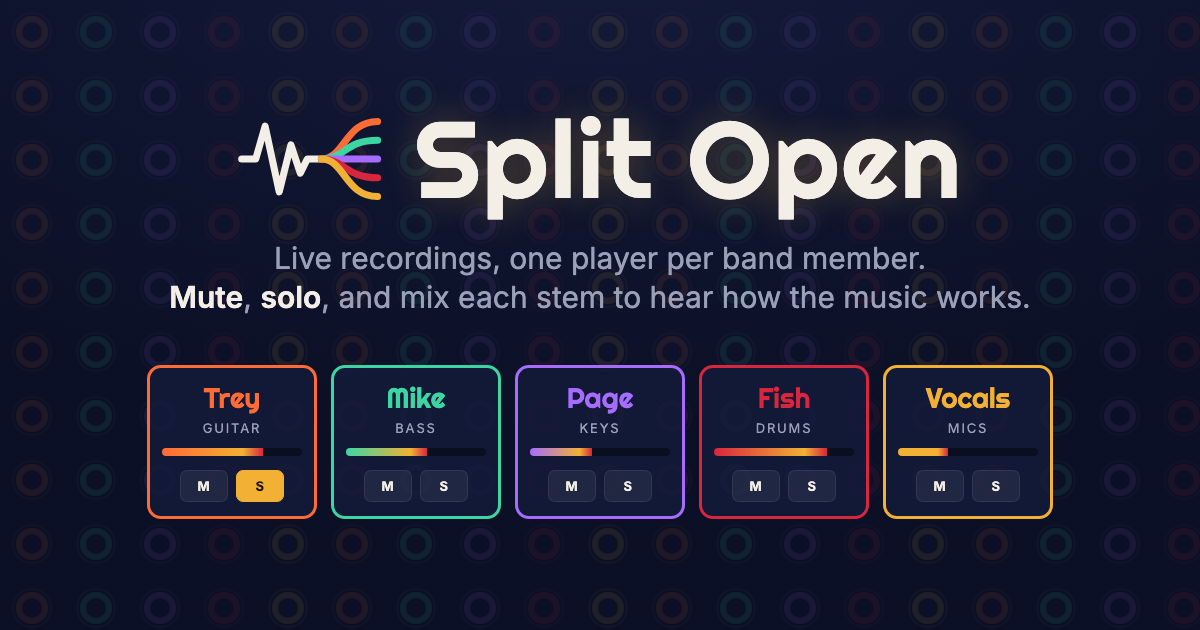
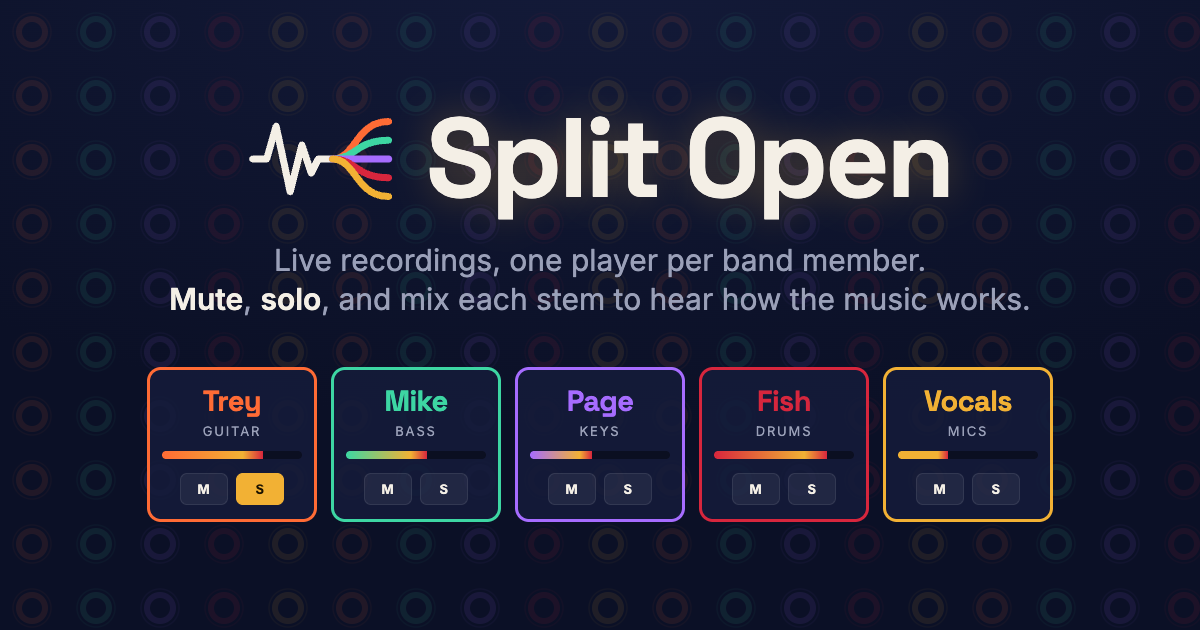
Set display type in Space Grotesk, keep Inter for the rest
Righteous gave the title, logo text, and strip names a retro signage look
that fought the mixer's console feel. Space Grotesk 700 with tight tracking
reads as gear rather than marquee while keeping the names personal. Inter
stays for body, buttons, labels, and timecode. The social card matches and
was regenerated.

diff --git a/scripts/social-card.html b/scripts/social-card.html
@@ -1,6 +1,6 @@
 <!doctype html>
 <html lang="en"><head><meta charset="utf-8">
-<link href="https://fonts.googleapis.com/css2?family=Righteous&family=Inter:wght@400;600;700&display=swap" rel="stylesheet">
+<link href="https://fonts.googleapis.com/css2?family=Space+Grotesk:wght@700&family=Inter:wght@400;600;700&display=swap" rel="stylesheet">
 <style>
 :root{--bg:#0b1026;--bg-2:#141b3a;--panel:rgba(20,27,58,.85);--line:rgba(255,255,255,.08);--text:#f4efe6;--muted:#9aa0b8;--gold:#f2b134;--donut:#d7263d;--trey:#ff6b35;--mike:#3dd6a3;--page:#a66cff;--fish:#d7263d;--vox:#f2b134}
 html,body{margin:0}
@@ -9,12 +9,12 @@ body{width:1200px;height:630px;overflow:hidden;position:relative;background:radi
 .wrap{position:relative;height:100%;display:flex;flex-direction:column;justify-content:center;align-items:center;gap:0;padding:0 80px}
 .head{display:flex;align-items:center;gap:28px;margin-top:-6px}
 .mark{width:150px;height:94px}
-h1{font-family:Righteous,sans-serif;font-weight:400;font-size:108px;line-height:1;margin:0;letter-spacing:.02em;text-shadow:0 0 36px rgba(242,177,52,.28)}
+h1{font-family:"Space Grotesk",sans-serif;font-weight:700;font-size:112px;line-height:1;margin:0;letter-spacing:-.03em;text-shadow:0 0 36px rgba(242,177,52,.28)}
 .tag{margin:26px 0 0;font-size:30px;color:var(--muted);text-align:center;line-height:1.3;font-weight:400}
 .tag b{color:var(--text);font-weight:600}
 .mixer{display:grid;grid-template-columns:repeat(5,170px);gap:14px;margin-top:48px}
 .strip{--c:var(--gold);background:var(--panel);border:3px solid var(--c);border-radius:14px;padding:16px 12px 14px;display:flex;flex-direction:column;align-items:center;gap:8px}
-.who{font-family:Righteous,sans-serif;font-size:28px;color:var(--c);line-height:1}
+.who{font-family:"Space Grotesk",sans-serif;font-weight:700;font-size:29px;letter-spacing:-.02em;color:var(--c);line-height:1}
 .inst{font-size:13px;color:var(--muted);text-transform:uppercase;letter-spacing:.14em}
 .meter{width:100%;height:8px;background:rgba(0,0,0,.4);border-radius:4px;overflow:hidden;margin-top:4px}
 .fill{height:100%;background:linear-gradient(to right,var(--c),var(--gold) 80%,var(--donut))}

diff --git a/web/styles.css b/web/styles.css
@@ -60,13 +60,16 @@ body {
 }
 .logo-mark { width: 44px; height: 28px; }
 .logo-text {
-  font-family: Righteous, Inter, sans-serif;
-  font-size: 20px;
-  letter-spacing: 0.04em;
+  font-family: "Space Grotesk", Inter, sans-serif;
+  font-weight: 700;
+  font-size: 21px;
+  letter-spacing: -0.01em;
 }
 h1 {
-  font-family: Righteous, Inter, sans-serif;
-  font-size: clamp(40px, 8vw, 72px);
+  font-family: "Space Grotesk", Inter, sans-serif;
+  font-weight: 700;
+  font-size: clamp(40px, 8vw, 76px);
+  letter-spacing: -0.03em;
   line-height: 1;
   margin: 6px 0 8px;
   color: var(--text);
@@ -128,8 +131,10 @@ h1 {
 .strip.inactive { opacity: 0.45; }
 
 .strip .who {
-  font-family: Righteous, Inter, sans-serif;
-  font-size: 22px;
+  font-family: "Space Grotesk", Inter, sans-serif;
+  font-weight: 700;
+  font-size: 23px;
+  letter-spacing: -0.02em;
   color: var(--c);
   line-height: 1;
 }

diff --git a/web/index.html b/web/index.html
@@ -27,7 +27,7 @@
 <meta name="twitter:image" content="https://weitzman.github.io/splitopen/web/social.png">
 <meta name="twitter:image:alt" content="Split Open: a five-channel stem mixer with Trey, Mike, Page, Fish, and Vocals strips">
 <link rel="preconnect" href="https://fonts.googleapis.com">
-<link href="https://fonts.googleapis.com/css2?family=Righteous&family=Inter:wght@400;600;700&display=swap" rel="stylesheet">
+<link href="https://fonts.googleapis.com/css2?family=Space+Grotesk:wght@700&family=Inter:wght@400;600;700&display=swap" rel="stylesheet">
 <link rel="stylesheet" href="styles.css">
 </head>
 <body>
